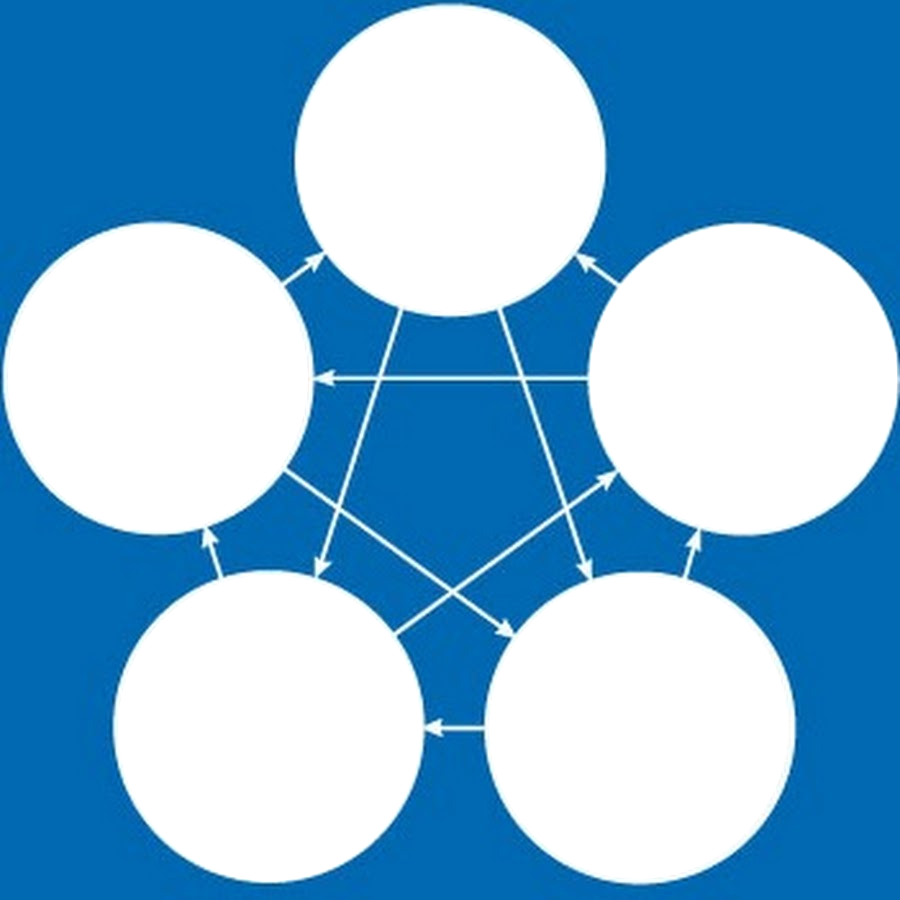
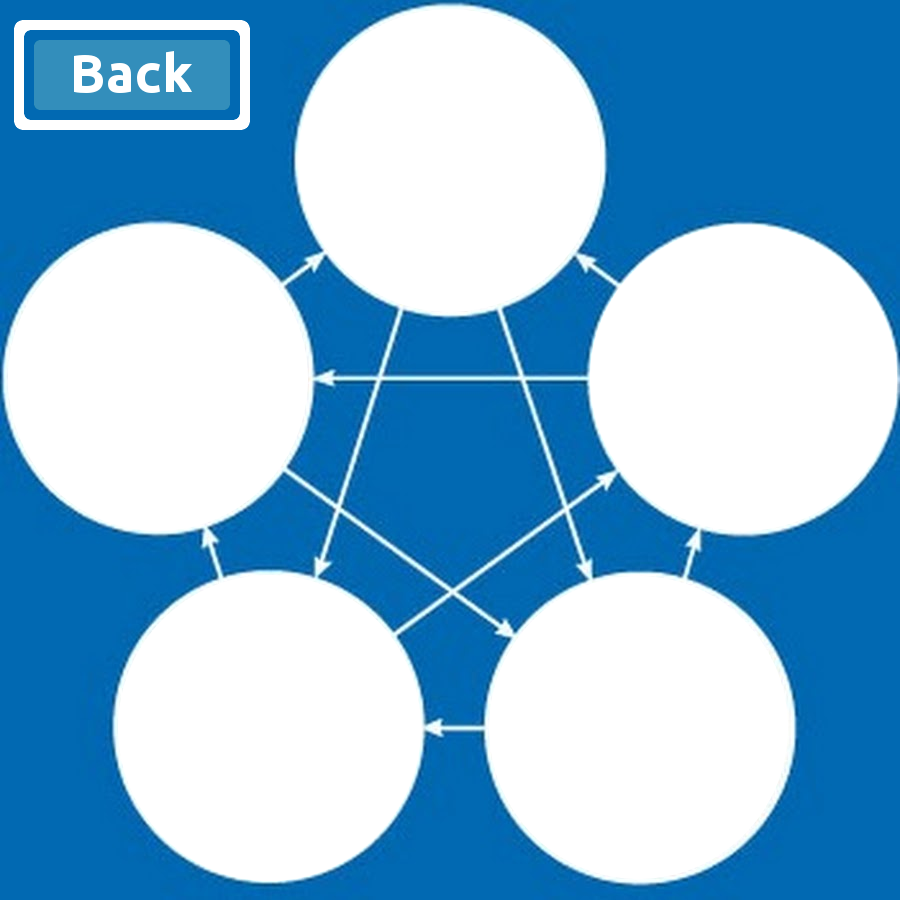
Business logic works. One last issue - no hover animation for back button on GameScreen

Changed region(s): [[0.0, 0.0, 0.28, 0.1556]]

diff --git a/RPSLS/gamescreen.cpp b/RPSLS/gamescreen.cpp
@@ -4,6 +4,12 @@
 #include <QMouseEvent>
 #include <string>
 #include <math.h>
+#include <thread>
+#include <chrono>
+#include <QMessageBox>
+#include "windowmanager.h"
+
+extern WindowManager WM;
 
 using namespace std;
 
@@ -24,7 +30,7 @@ GameScreen::GameScreen(QWidget *parent) :
     {
         pixmaps[i][0]=QPixmap(QString::fromStdString(":/Blue/resources/Blue/"+names[i]+"_b.png"));
         pixmaps[i][1]=QPixmap(QString::fromStdString(":/Green/resources/Green/"+names[i]+"_g.png"));
-        pixmaps[i][2]=QPixmap(QString::fromStdString(":/Green/resources/Green/"+names[i]+"_g.png"));
+        pixmaps[i][2]=QPixmap(QString::fromStdString(":/Red/resources/Red/"+names[i]+"_r.png"));
     }
     this->setMouseTracking(true);
     ui->setupUi(this);
@@ -69,6 +75,8 @@ void GameScreen::mouseMoveEvent(QMouseEvent *e)
         stateChange(4,1);
     } else {
         for(int i=0;i<5;i++)stateChange(i,0);
+//        QString text = QString::fromStdString(string("")+to_string(e->x())+";"+to_string(e->y()));
+//        QToolTip::showText(e->pos(),text);
     }
     colorify();
 }
@@ -131,26 +139,57 @@ void GameScreen::mouseReleaseEvent(QMouseEvent *e)
 {
     double x=e->x();
     double y=e->y();
-    double R_d, P_d, Sc_d, L_d, Sp_d;
-    R_d = sqrt((x-210)*(x-210)+(y-70)*(y-70))-66;
-    P_d = sqrt((x-348)*(x-348)+(y-170)*(y-170))-66;
-    Sc_d = sqrt((x-300)*(x-300)+(y-325)*(y-325))-66;
-    L_d = sqrt((x-125)*(x-125)+(y-325)*(y-325))-66;
-    Sp_d = sqrt((x-74)*(x-74)+(y-170)*(y-170))-66;
-    int choice;
-    if(R_d<0)
+    if(x>=12&&x<=112&&y>=15&&y<=55)
     {
-        choice=0;
-    } else if (P_d<0) {
-        choice=1;
-    } else if (Sc_d<0) {
-        choice=2;
-    } else if (L_d<0) {
-        choice=3;
-    } else if (Sp_d<0) {
-        choice=4;
+        WM.gs->hide();
+        WM.hs->show();
+    } else {
+        double R_d, P_d, Sc_d, L_d, Sp_d;
+        R_d = sqrt((x-210)*(x-210)+(y-70)*(y-70))-66;
+        P_d = sqrt((x-348)*(x-348)+(y-170)*(y-170))-66;
+        Sc_d = sqrt((x-300)*(x-300)+(y-325)*(y-325))-66;
+        L_d = sqrt((x-125)*(x-125)+(y-325)*(y-325))-66;
+        Sp_d = sqrt((x-74)*(x-74)+(y-170)*(y-170))-66;
+        int choice=-1;
+        if(R_d<0)
+        {
+            choice=0;
+        } else if (P_d<0) {
+            choice=1;
+        } else if (Sc_d<0) {
+            choice=2;
+        } else if (L_d<0) {
+            choice=3;
+        } else if (Sp_d<0) {
+            choice=4;
+        }
+        if(choice>=0)
+        {
+            stateChange(choice,3);
+            colorify();
+            GameResult res = core.play(choice,10);
+            for(int i=0;i<res.choices.size()-1;i++)
+            {
+                int last = states[res.choices[i]];
+                states[res.choices[i]] = 2;
+                colorify();
+                repaint();
+                std::this_thread::sleep_for( std::chrono::milliseconds(100));
+                states[res.choices[i]] = last;
+            }
+            states[res.choices[res.choices.size()-1]] = 2;
+            colorify();
+            QString title,text;
+            if(res.result==0){
+                title=QString::fromStdString("Draw!");
+            } else if(res.result==1) {
+                title=QString::fromStdString("You won!");
+            } else {
+                title=QString::fromStdString("You lost!");
+            }
+            text = QString::fromStdString(core.message(choice,res.choices[res.choices.size()-1]));
+            QMessageBox::information(NULL, title, text);
+            for(int i=0;i<5;i++)states[i]=0;
+        }
     }
-    stateChange(choice,3);
-    colorify();
-    GameResult res = core.play(choice,5);
 }

diff --git a/RPSLS/gamescreen.h b/RPSLS/gamescreen.h
@@ -23,7 +23,6 @@ private:
     void colorify();
     void stateChange(int i, int newstate);
     RPSLS_Core core;
-    void thrfun();
 
 protected:
     void mouseMoveEvent(QMouseEvent *e);
